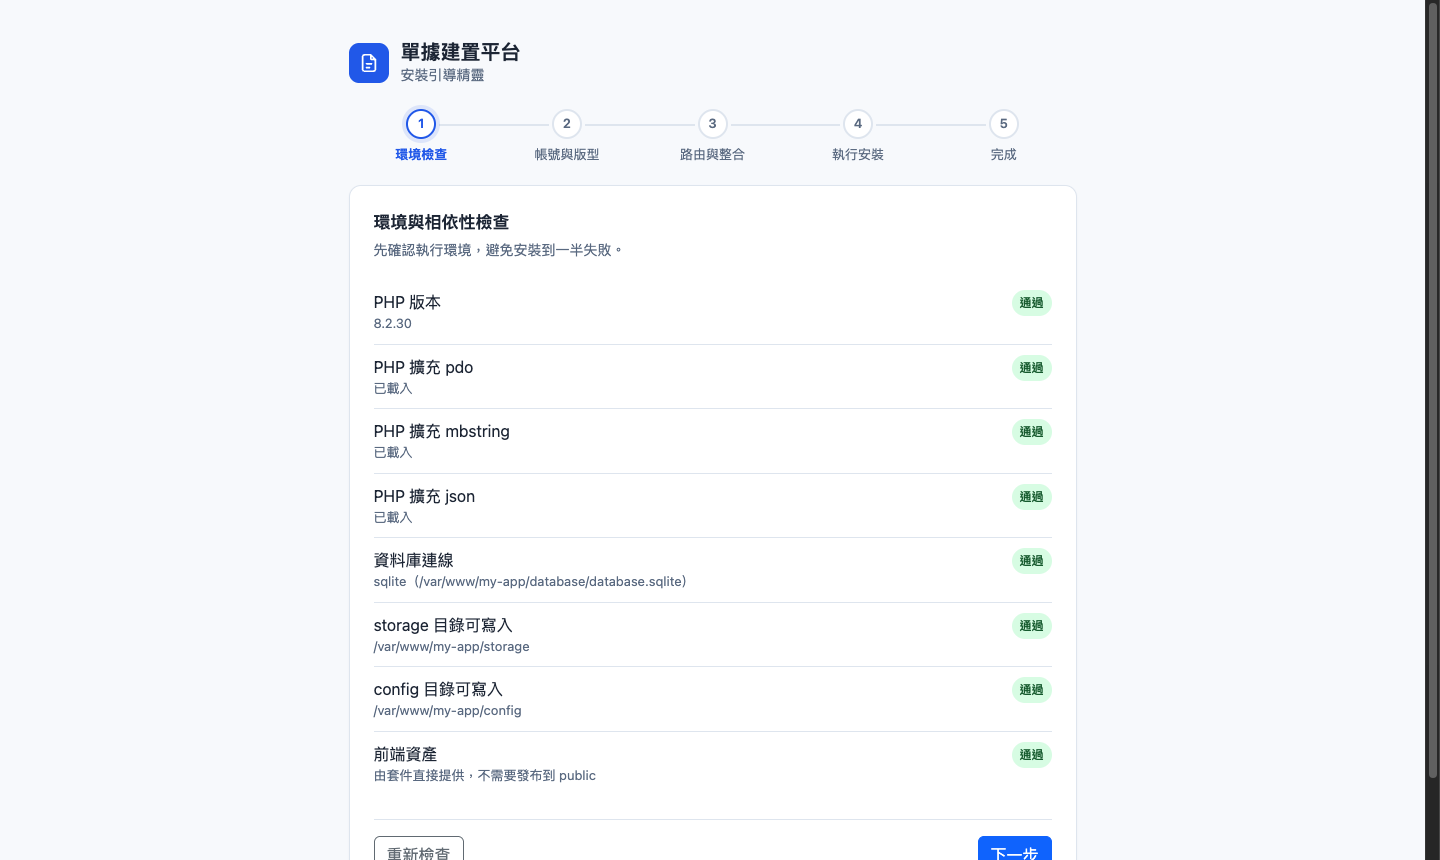
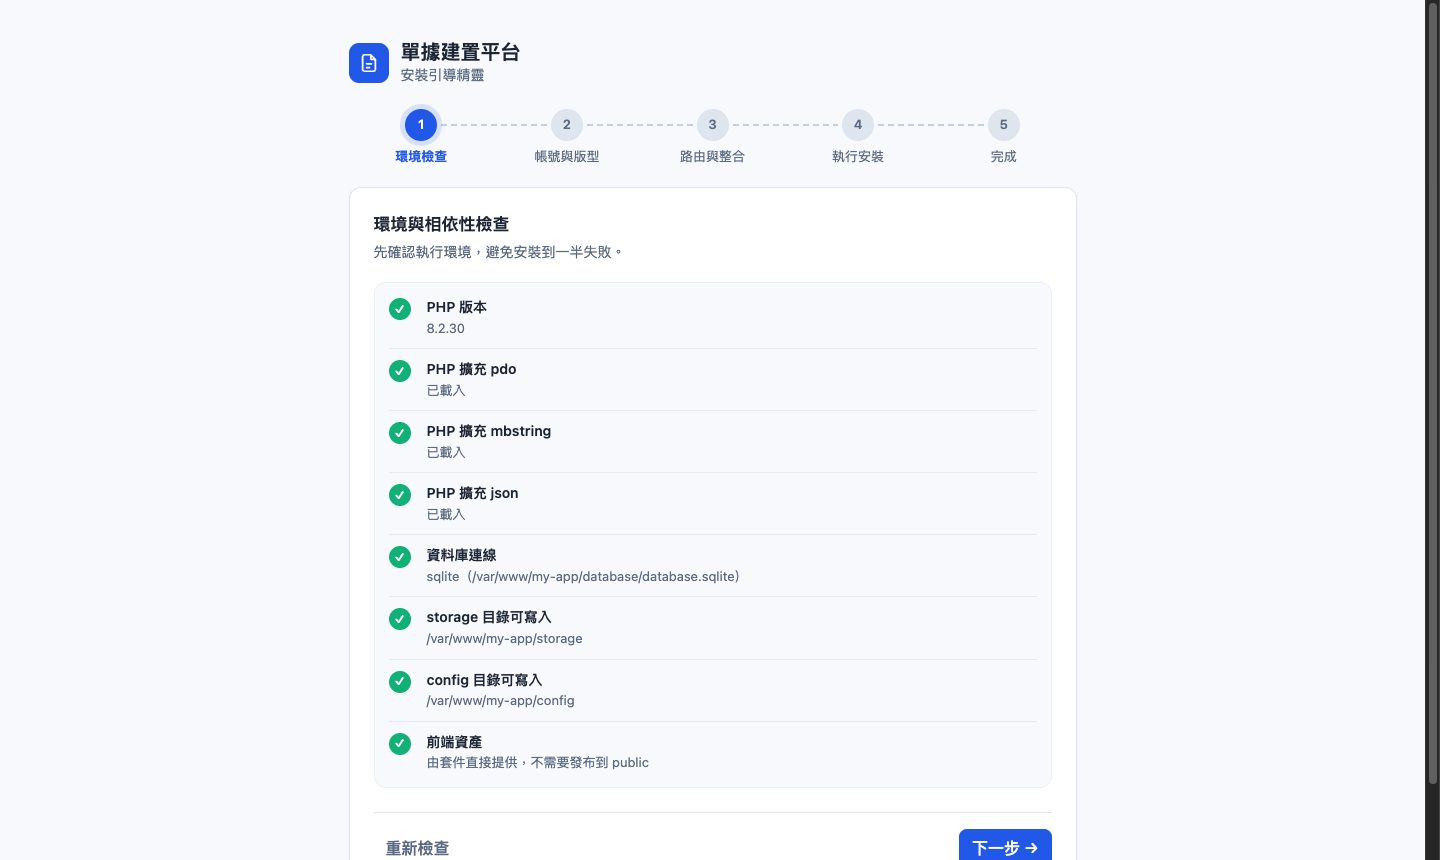
style: 安裝精靈視覺打磨
- 執行項目與環境檢查改成左側狀態圖示＋標題與說明兩行，不再把
  狀態推到最右端；環境檢查收成同一容器的精簡清單
- 程式碼標籤改灰階，取代 Bootstrap 的洋紅色
- 步驟條：目前步驟實心加光暈、未到的步驟淡灰虛線
- 上一步、重新檢查改成無框按鈕；下一步加箭頭並統一品牌藍
- 執行項目文案改為建立資料表結構、指派超級管理員、產生設定檔
- README 精靈截圖重拍

diff --git a/resources/dist/css/install.css b/resources/dist/css/install.css
@@ -258,3 +258,99 @@
     .db-stepper li span { display: none; }
     .db-install-card { padding: 1.125rem; }
 }
+
+/* ───────── 視覺打磨：狀態列、程式碼、步驟條、按鈕 ───────── */
+.db-install { --db-ok: #10b981; --db-accent: #2563eb; }
+
+/* 狀態列：左側圖示＋標題與說明兩行，不再把狀態推到最右端 */
+.db-rows { display: grid; gap: 0.5rem; list-style: none; padding: 0; margin: 0; }
+.db-row {
+    display: flex;
+    align-items: flex-start;
+    gap: 0.875rem;
+    padding: 0.75rem 0.875rem;
+    background: #f8fafc;
+    border: 1px solid #eef2f7;
+    border-radius: 0.625rem;
+}
+.db-check-list .db-row + .db-row { margin-top: 0.5rem; }
+.db-check-list li.db-row,
+.db-check-list li.db-row:last-child { padding: 0.75rem 0.875rem; border: 1px solid #eef2f7; justify-content: flex-start; }
+.db-check-list li.db-row.is-error { border-color: #fee2e2; }
+.db-check-list li.db-row.is-warn { border-color: #fef3c7; }
+.db-row-icon {
+    flex: none;
+    display: grid;
+    place-items: center;
+    width: 26px;
+    height: 26px;
+    margin-top: 1px;
+    border-radius: 50%;
+    font-size: 0.8125rem;
+    font-weight: 700;
+    color: #fff;
+    background: #cbd5e1;
+}
+.db-row.is-ok .db-row-icon { background: var(--db-ok); box-shadow: 0 2px 6px rgba(16, 185, 129, 0.35); }
+.db-row.is-ok .db-row-icon::before { content: "✓"; }
+.db-row.is-error .db-row-icon { background: var(--db-error); box-shadow: 0 2px 6px rgba(220, 38, 38, 0.3); }
+.db-row.is-error .db-row-icon::before { content: "✕"; }
+.db-row.is-warn .db-row-icon { background: var(--db-warn); }
+.db-row.is-warn .db-row-icon::before { content: "!"; }
+.db-row.is-wait .db-row-icon { background: #fff; border: 2px solid #cbd5e1; }
+.db-row.is-run .db-row-icon { background: #fff; border: 2px solid #bfdbfe; border-top-color: var(--db-accent); animation: db-spin 0.8s linear infinite; }
+@keyframes db-spin { to { transform: rotate(360deg); } }
+.db-row-body { flex: 1; min-width: 0; }
+.db-row-title { font-weight: 600; font-size: 0.9375rem; line-height: 1.4; }
+.db-row-sub { color: var(--db-muted); font-size: 0.8125rem; margin-top: 0.125rem; word-break: break-all; }
+.db-row-fix { font-size: 0.8125rem; margin-top: 0.375rem; color: var(--db-error); }
+.db-row.is-warn .db-row-fix { color: #b45309; }
+.db-row-status { flex: none; font-size: 0.75rem; color: var(--db-muted); margin-top: 4px; white-space: nowrap; }
+.db-row.is-ok .db-row-status { color: #047857; }
+.db-row.is-error .db-row-status { color: var(--db-error); font-weight: 600; }
+.db-row.is-error { background: #fef2f2; border-color: #fee2e2; }
+.db-row.is-warn { background: #fffbeb; border-color: #fef3c7; }
+
+/* 程式碼：灰階取代 Bootstrap 的洋紅 */
+.db-install code {
+    font-size: 0.85em;
+    color: #334155;
+    background: #f1f5f9;
+    border: 1px solid #e2e8f0;
+    border-radius: 4px;
+    padding: 1px 6px;
+}
+
+/* 步驟條：較大的圓、目前步驟實心加光暈、未到的步驟淡灰 */
+.db-stepper li::before { width: 32px; height: 32px; border: 0; background: #e2e8f0; color: var(--db-muted); }
+.db-stepper li:not(:last-child)::after { top: 15px; left: calc(50% + 20px); right: calc(-50% + 20px); background: repeating-linear-gradient(90deg, #cbd5e1 0 6px, transparent 6px 10px); }
+.db-stepper li.is-current::before { background: var(--db-accent); color: #fff; box-shadow: 0 0 0 5px rgba(37, 99, 235, 0.15); }
+.db-stepper li.is-done::before { background: var(--db-ok); color: #fff; box-shadow: 0 2px 6px rgba(16, 185, 129, 0.3); }
+.db-stepper li.is-done:not(:last-child)::after { background: var(--db-ok); }
+
+/* 按鈕：上一步改成幽靈按鈕，主要按鈕統一品牌藍＋微陰影 */
+.db-install .btn { border-radius: 8px; font-weight: 500; }
+.db-install .btn-primary {
+    --bs-btn-bg: var(--db-accent);
+    --bs-btn-border-color: var(--db-accent);
+    --bs-btn-hover-bg: #1d4ed8;
+    --bs-btn-hover-border-color: #1d4ed8;
+    --bs-btn-active-bg: #1e40af;
+    --bs-btn-disabled-bg: var(--db-accent);
+    --bs-btn-disabled-border-color: var(--db-accent);
+    box-shadow: 0 1px 2px rgba(15, 23, 42, 0.08);
+}
+.db-btn-ghost { border: 0; color: var(--db-muted); background: transparent; }
+.db-btn-ghost:hover, .db-btn-ghost:focus-visible { color: var(--db-text); background: #f1f5f9; }
+.db-btn-ghost:disabled { visibility: hidden; }
+
+@media (prefers-reduced-motion: reduce) { .db-row.is-run .db-row-icon { animation: none; } }
+
+/* 環境檢查項目多：收進同一個容器的精簡清單，通過的項目只留綠勾 */
+.db-check-list.js-checks { background: #f8fafc; border: 1px solid #eef2f7; border-radius: 0.75rem; padding: 0.25rem 0.875rem; }
+.db-check-list.js-checks li.db-row,
+.db-check-list.js-checks li.db-row:last-child { background: transparent; border: 0; border-radius: 0; padding: 0.625rem 0; margin: 0; }
+.db-check-list.js-checks li.db-row + li.db-row { border-top: 1px solid #e9eef5; }
+.db-check-list.js-checks .db-row-icon { width: 22px; height: 22px; font-size: 0.6875rem; box-shadow: none; }
+.db-check-list.js-checks .db-row-title { font-size: 0.875rem; }
+.db-check-list.js-checks .db-row.is-ok .db-row-status { display: none; }

diff --git a/resources/views/setup.blade.php b/resources/views/setup.blade.php
@@ -37,21 +37,22 @@
 
     <ul class="db-check-list js-checks">
         @foreach($checks as $check)
-            <li>
-                <div>
-                    <div>{{ $check['label'] }}</div>
-                    <div class="db-check-value">{{ $check['value'] }}</div>
-                    @if($check['fix'])<div class="db-check-fix text-{{ $check['level'] === 'error' ? 'danger' : 'warning' }}">{{ $check['fix'] }}</div>@endif
+            <li class="db-row {{ $levels[$check['level']][0] }}">
+                <span class="db-row-icon" aria-hidden="true"></span>
+                <div class="db-row-body">
+                    <div class="db-row-title">{{ $check['label'] }}</div>
+                    <div class="db-row-sub">{{ $check['value'] }}</div>
+                    @if($check['fix'])<div class="db-row-fix">{{ $check['fix'] }}</div>@endif
                 </div>
-                <span class="db-badge {{ $levels[$check['level']][0] }}">{{ $levels[$check['level']][1] }}</span>
+                <span class="db-row-status">{{ $levels[$check['level']][1] }}</span>
             </li>
         @endforeach
     </ul>
 
     <div class="db-install-actions">
-        <button type="button" class="btn btn-outline-secondary js-check" @if($needsToken) hidden @endif>重新檢查</button>
+        <button type="button" class="btn db-btn-ghost js-check" @if($needsToken) hidden @endif>重新檢查</button>
         <button type="button" class="btn btn-primary js-next" data-to="2"
-                @disabled($needsToken || collect($checks)->contains('level', 'error'))>下一步</button>
+                @disabled($needsToken || collect($checks)->contains('level', 'error'))>下一步 <span aria-hidden="true">→</span></button>
     </div>
 </section>
 
@@ -113,8 +114,8 @@
     </div>
 
     <div class="db-install-actions">
-        <button type="button" class="btn btn-outline-secondary js-prev" data-to="1">上一步</button>
-        <button type="button" class="btn btn-primary js-next" data-to="3">下一步</button>
+        <button type="button" class="btn db-btn-ghost js-prev" data-to="1">上一步</button>
+        <button type="button" class="btn btn-primary js-next" data-to="3">下一步 <span aria-hidden="true">→</span></button>
     </div>
 </section>
 
@@ -150,8 +151,8 @@
     </div>
 
     <div class="db-install-actions">
-        <button type="button" class="btn btn-outline-secondary js-prev" data-to="2">上一步</button>
-        <button type="button" class="btn btn-primary js-save-settings">下一步</button>
+        <button type="button" class="btn db-btn-ghost js-prev" data-to="2">上一步</button>
+        <button type="button" class="btn btn-primary js-save-settings">下一步 <span aria-hidden="true">→</span></button>
     </div>
 </section>
 
@@ -161,9 +162,21 @@
     <div class="db-step-desc">建立資料表、設定超級管理員並寫入設定檔。前端資產由套件直接提供，不需要發布。</div>
 
     <ul class="db-check-list js-tasks">
-        <li data-task="migrate"><span>建立資料表（只執行單據建置自己的 migration）</span><span class="db-badge is-wait">等待中</span></li>
-        <li data-task="admin"><span>把你設為第一位超級管理員</span><span class="db-badge is-wait">等待中</span></li>
-        <li data-task="config"><span>寫入設定檔 <code>config/document_builder.php</code></span><span class="db-badge is-wait">等待中</span></li>
+        <li class="db-row is-wait" data-task="migrate">
+            <span class="db-row-icon" aria-hidden="true"></span>
+            <div class="db-row-body"><div class="db-row-title">建立資料表結構</div><div class="db-row-sub">只執行單據建置自己的 migration，不會動到專案其他資料表</div></div>
+            <span class="db-row-status">等待中</span>
+        </li>
+        <li class="db-row is-wait" data-task="admin">
+            <span class="db-row-icon" aria-hidden="true"></span>
+            <div class="db-row-body"><div class="db-row-title">指派超級管理員</div><div class="db-row-sub">將目前登入的帳號設為單據建置的超級管理員</div></div>
+            <span class="db-row-status">等待中</span>
+        </li>
+        <li class="db-row is-wait" data-task="config">
+            <span class="db-row-icon" aria-hidden="true"></span>
+            <div class="db-row-body"><div class="db-row-title">產生設定檔</div><div class="db-row-sub"><code>config/document_builder.php</code></div></div>
+            <span class="db-row-status">等待中</span>
+        </li>
     </ul>
     <details class="mt-3">
         <summary class="small text-muted">執行記錄</summary>
@@ -176,10 +189,10 @@
     </div>
 
     <div class="db-install-actions">
-        <button type="button" class="btn btn-outline-secondary js-prev" data-to="3">上一步</button>
+        <button type="button" class="btn db-btn-ghost js-prev" data-to="3">上一步</button>
         <div class="d-flex gap-2">
             <button type="button" class="btn btn-primary js-run">開始初始化安裝</button>
-            <button type="button" class="btn btn-primary js-finish" hidden>下一步</button>
+            <button type="button" class="btn btn-primary js-finish" hidden>下一步 <span aria-hidden="true">→</span></button>
         </div>
     </div>
 </section>
@@ -278,9 +291,10 @@ $(function () {
         $.post(urls.check, { token: $('.js-token').val() }).done(function (data) {
             var $list = $('.js-checks').empty();
             data.checks.forEach(function (c) {
-                var fix = c.fix ? '<div class="db-check-fix text-' + (c.level === 'error' ? 'danger' : 'warning') + '">' + escape(c.fix) + '</div>' : '';
-                $list.append('<li><div><div>' + escape(c.label) + '</div><div class="db-check-value">' + escape(c.value) + '</div>' + fix + '</div>' +
-                    '<span class="db-badge ' + levels[c.level][0] + '">' + levels[c.level][1] + '</span></li>');
+                var fix = c.fix ? '<div class="db-row-fix">' + escape(c.fix) + '</div>' : '';
+                $list.append('<li class="db-row ' + levels[c.level][0] + '"><span class="db-row-icon" aria-hidden="true"></span>' +
+                    '<div class="db-row-body"><div class="db-row-title">' + escape(c.label) + '</div><div class="db-row-sub">' + escape(c.value) + '</div>' + fix + '</div>' +
+                    '<span class="db-row-status">' + levels[c.level][1] + '</span></li>');
             });
             $('.js-token-box').remove();
             $('.js-check').attr('hidden', false);
@@ -337,7 +351,7 @@ $(function () {
 
     // Step 4：依序執行，每一項顯示進度
     function setTask(task, cls, text) {
-        $('.js-tasks [data-task=' + task + '] .db-badge').attr('class', 'db-badge ' + cls).text(text);
+        $('.js-tasks [data-task=' + task + ']').attr('class', 'db-row ' + cls).find('.db-row-status').text(text);
     }
     function log(text) {
         var $log = $('.js-log');
